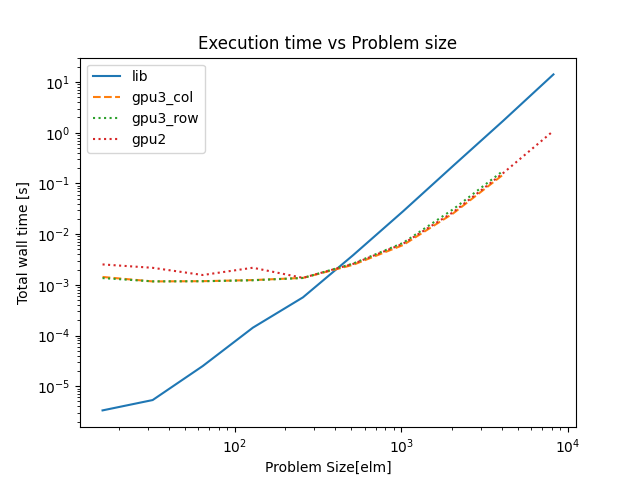
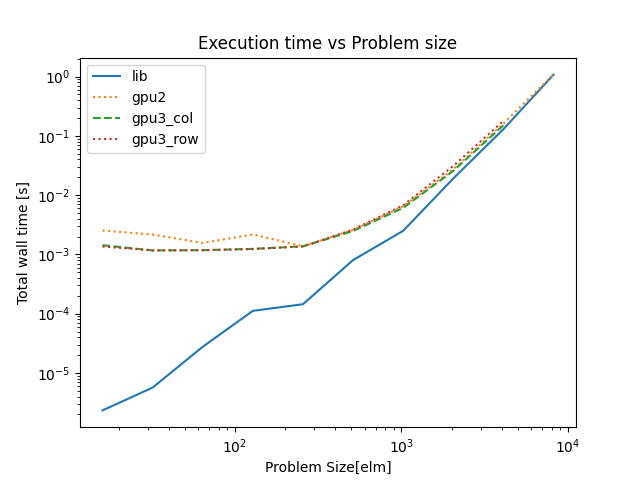
Data processing

diff --git a/Assignment3/matmult_Results/matmultPlotTimeEx2_1.py b/Assignment3/matmult_Results/matmultPlotTimeEx2_1.py
@@ -84,9 +84,9 @@ plot_names = ["Execution time vs Problem size", "Bla"]
 
 plt.figure(plot_names[0])
 plt.plot(lib["Problem Size[elm]"], lib["Wall time[s]"], label = lib["Permutation"][1], linestyle="-")
+plt.plot(data2["Problem Size[elm]"], data2["Kernel wall time[s]"] + data2["Memory wall time[s]"], label = data2["Permutation"][1], linestyle=":")
 plt.plot(data["Problem Size[elm]"], data["Kernel wall time[s]"] + data["Memory wall time[s]"], label = "gpu3_col", linestyle="--")
 plt.plot(data1["Problem Size[elm]"], data1["Kernel wall time[s]"] + data1["Memory wall time[s]"], label = "gpu3_row", linestyle=":")
-plt.plot(data2["Problem Size[elm]"], data2["Kernel wall time[s]"] + data2["Memory wall time[s]"], label = data2["Permutation"][1], linestyle=":")
 plt.legend()
 plt.xlabel("Problem Size[elm]")
 plt.ylabel("Total wall time [s]")

diff --git a/Assignment3/matmult_Results/matmultPlotTimeEx1_speedCheck.py b/Assignment3/matmult_Results/matmultPlotTimeEx1_speedCheck.py
@@ -45,7 +45,7 @@ plot_names = ["Single thread, CPU vs GPU", "Bla"]
 
 plt.figure(plot_names[0])
 plt.plot(lib["Problem Size[elm]"], lib["Wall time[s]"], label = lib["Permutation"][1], linestyle="-")
-plt.plot(lib["Problem Size[elm]"], lib["Wall time[s]"], label = "libmulti", linestyle=":")
+plt.plot(lib2["Problem Size[elm]"], lib2["Wall time[s]"], label = "libmulti", linestyle=":")
 plt.legend()
 plt.xlabel("Problem Size[elm]")
 plt.ylabel("Total wall time [s]")
